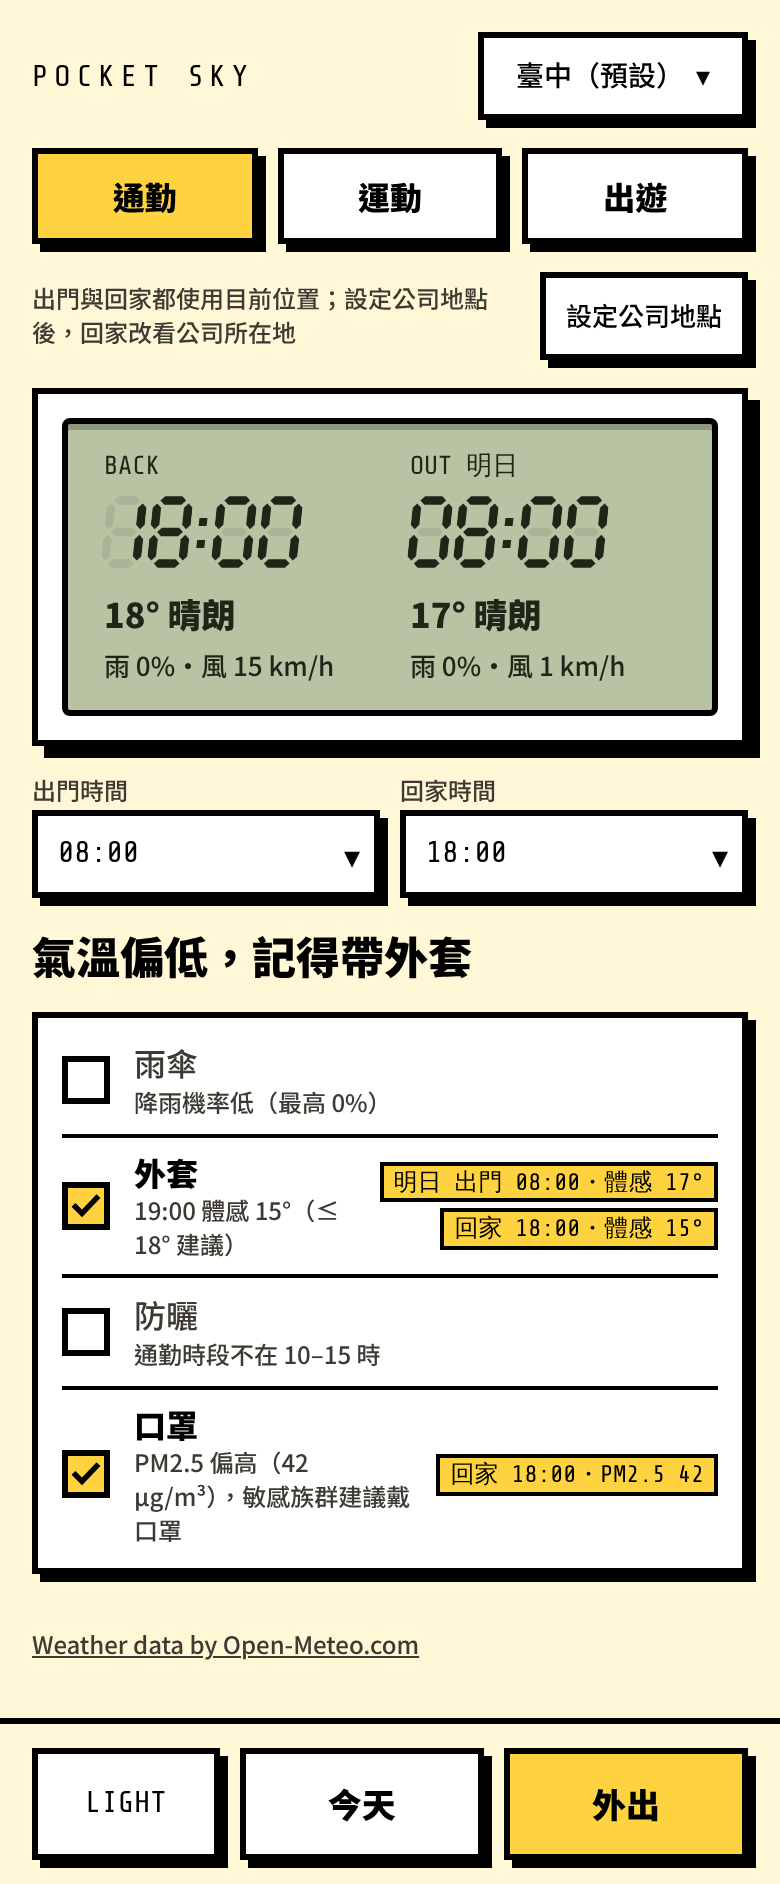
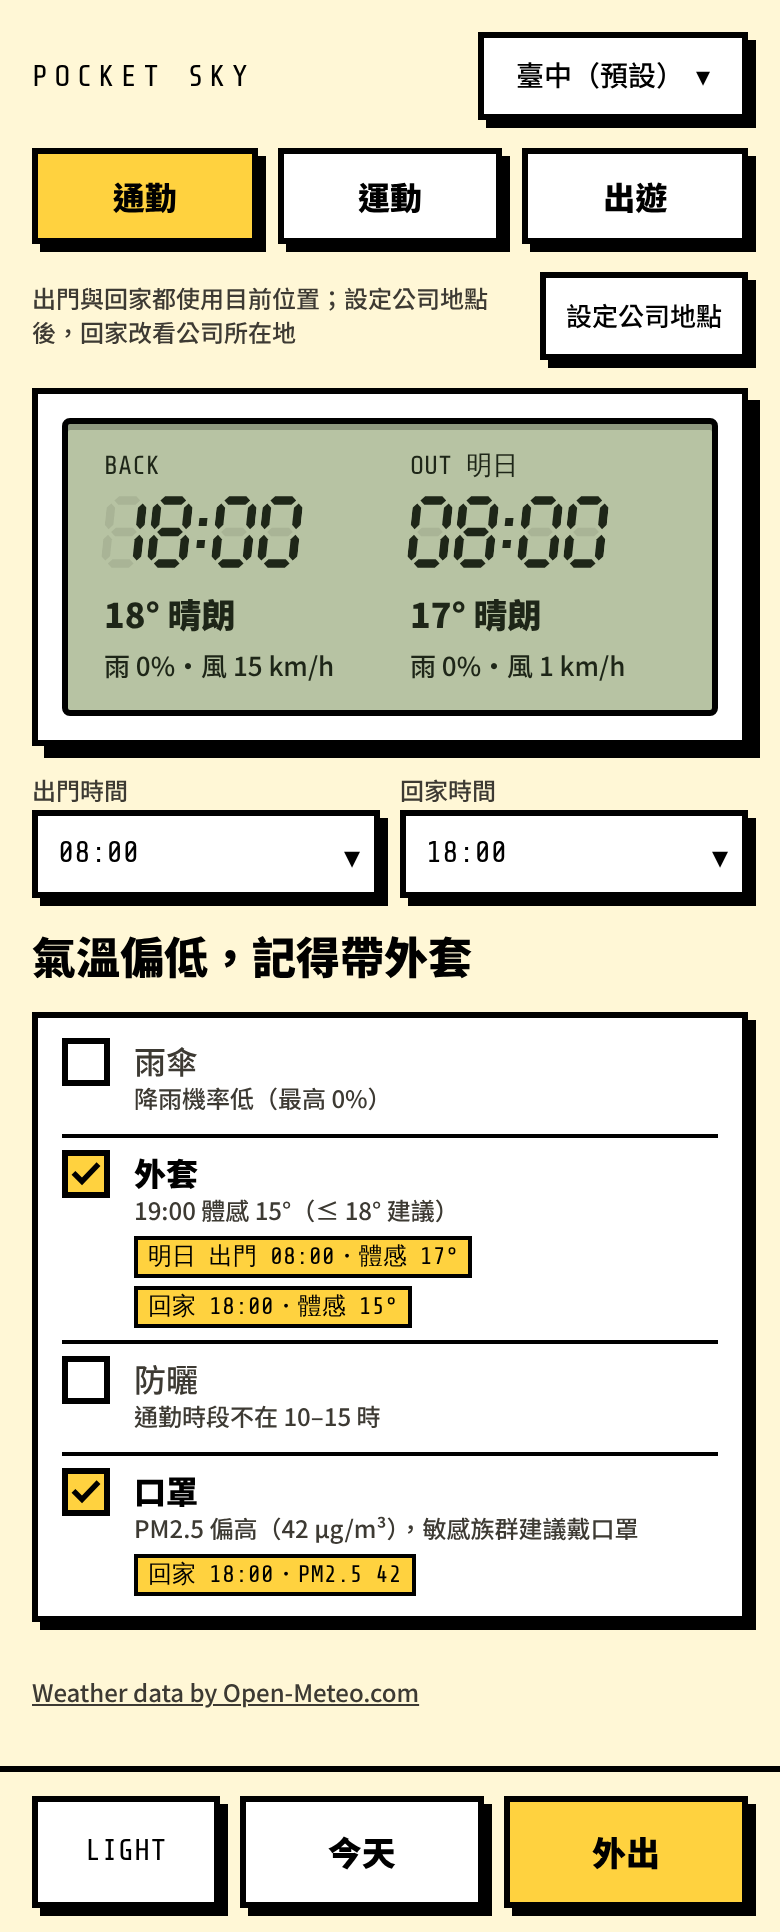
feat(ui): wrap checklist tags below the reason at 420px; device-clock theme fallback
Claude-Session: https://claude.ai/code/session_01Wh9v8ZCiq8tKrRc79SNtfj

Changed region(s): [[0.0, 0.0308, 1.0, 0.9851]]

diff --git a/js/theme-boot.js b/js/theme-boot.js
@@ -7,7 +7,9 @@
  * missing) day/night is computed from the most recent cached forecast
  * (om:v1:forecast:*, latest savedAt: today's sunrise/sunset at the cached
  * utc offset, else current.is_day), and only without a usable cache the last
- * resolved theme (ps:theme-last, written by the app) is used.
+ * resolved theme (ps:theme-last, written by the app) is used. With neither (the
+ * very first launch) the device clock decides as a last resort: 18:00-06:00 is
+ * night, otherwise the stylesheet default (day) stays.
  * Must never throw: storage can be blocked or missing. Keep THEME_COLORS in
  * js/ui/theme.js in sync (a unit test checks it).
  */
@@ -67,6 +69,14 @@
       }
     }
     var theme = valid(pref) ? pref : computed ? computed : valid(last) ? last : null;
+    if (!theme) {
+      try {
+        var hour = new Date(Date.now()).getHours();
+        theme = hour >= 18 || hour < 6 ? "night" : null;
+      } catch (e) {
+        theme = null;
+      }
+    }
     if (!theme) return;
     document.documentElement.dataset.theme = theme;
     var meta = document.querySelector('meta[name="theme-color"]');

diff --git a/css/app.css b/css/app.css
@@ -269,6 +269,13 @@ main:focus { outline: none; }
 .check-why { font-size: 12px; color: var(--sub); }
 .tags { display: flex; flex-direction: column; align-items: flex-end; gap: 3px; flex: none; }
 .tag { font-family: var(--font-mono); font-size: 12px; border: 2px solid var(--line); padding: 0 5px; background: var(--accent); color: var(--on-accent); white-space: nowrap; }
+.tags:empty { display: none; }
+/* narrow screens: the tags wrap below the reason (aligned with the text, past the 24px box + 12px gap) instead of squeezing it */
+@media (max-width: 420px) {
+  .check-item { flex-wrap: wrap; align-items: flex-start; row-gap: 4px; }
+  .check-body { flex: 1 1 calc(100% - 36px); }
+  .tags { flex: 1 0 100%; flex-direction: row; flex-wrap: wrap; align-items: flex-start; gap: 4px 6px; padding-left: 36px; }
+}
 
 /* ---- outing: exercise ---- */
 .x-digits { display: flex; justify-content: space-between; align-items: center; }
